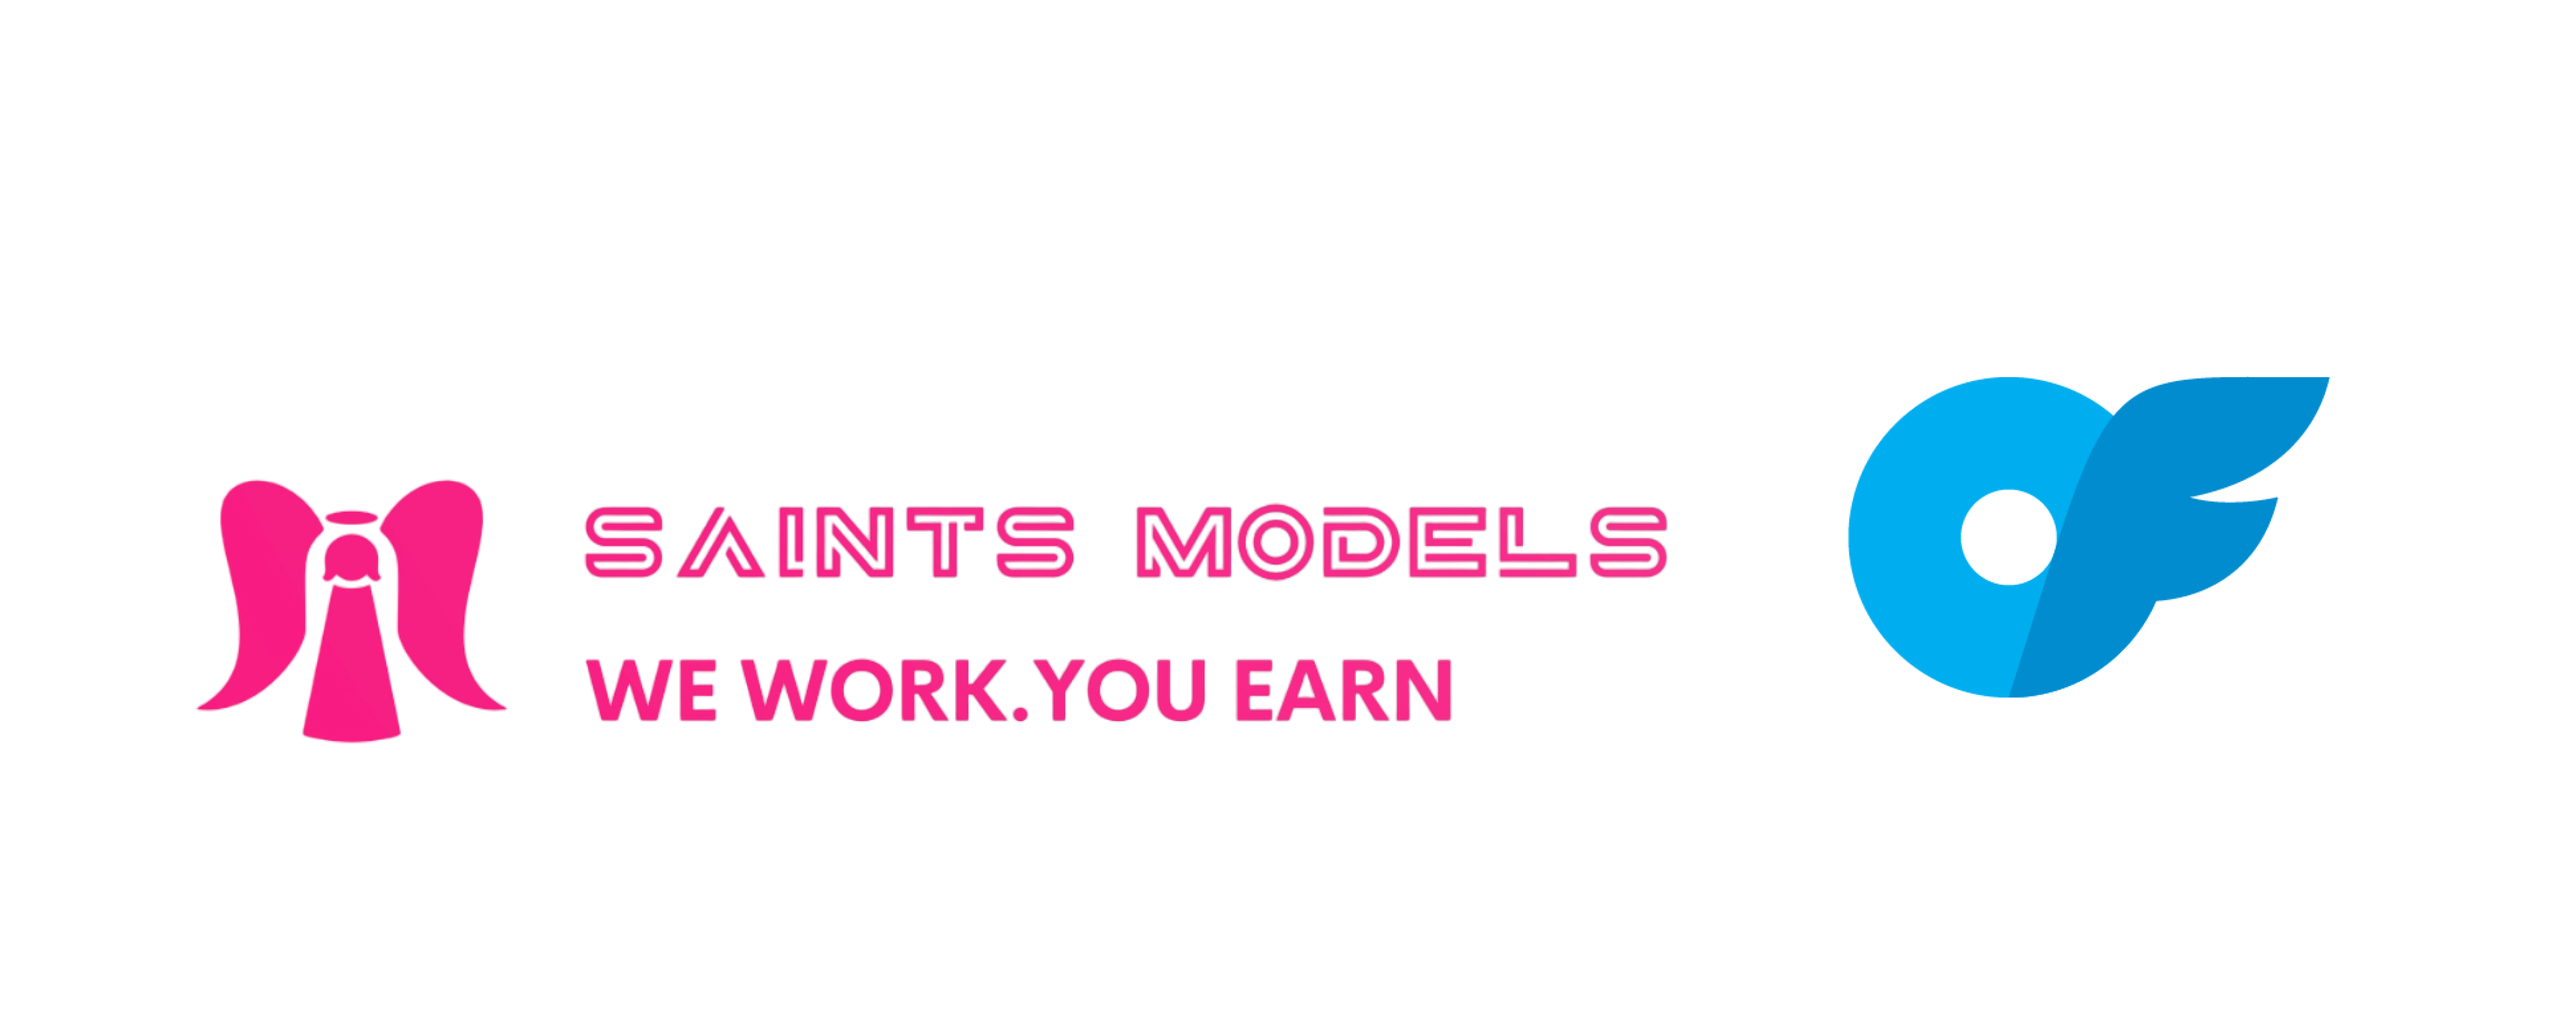
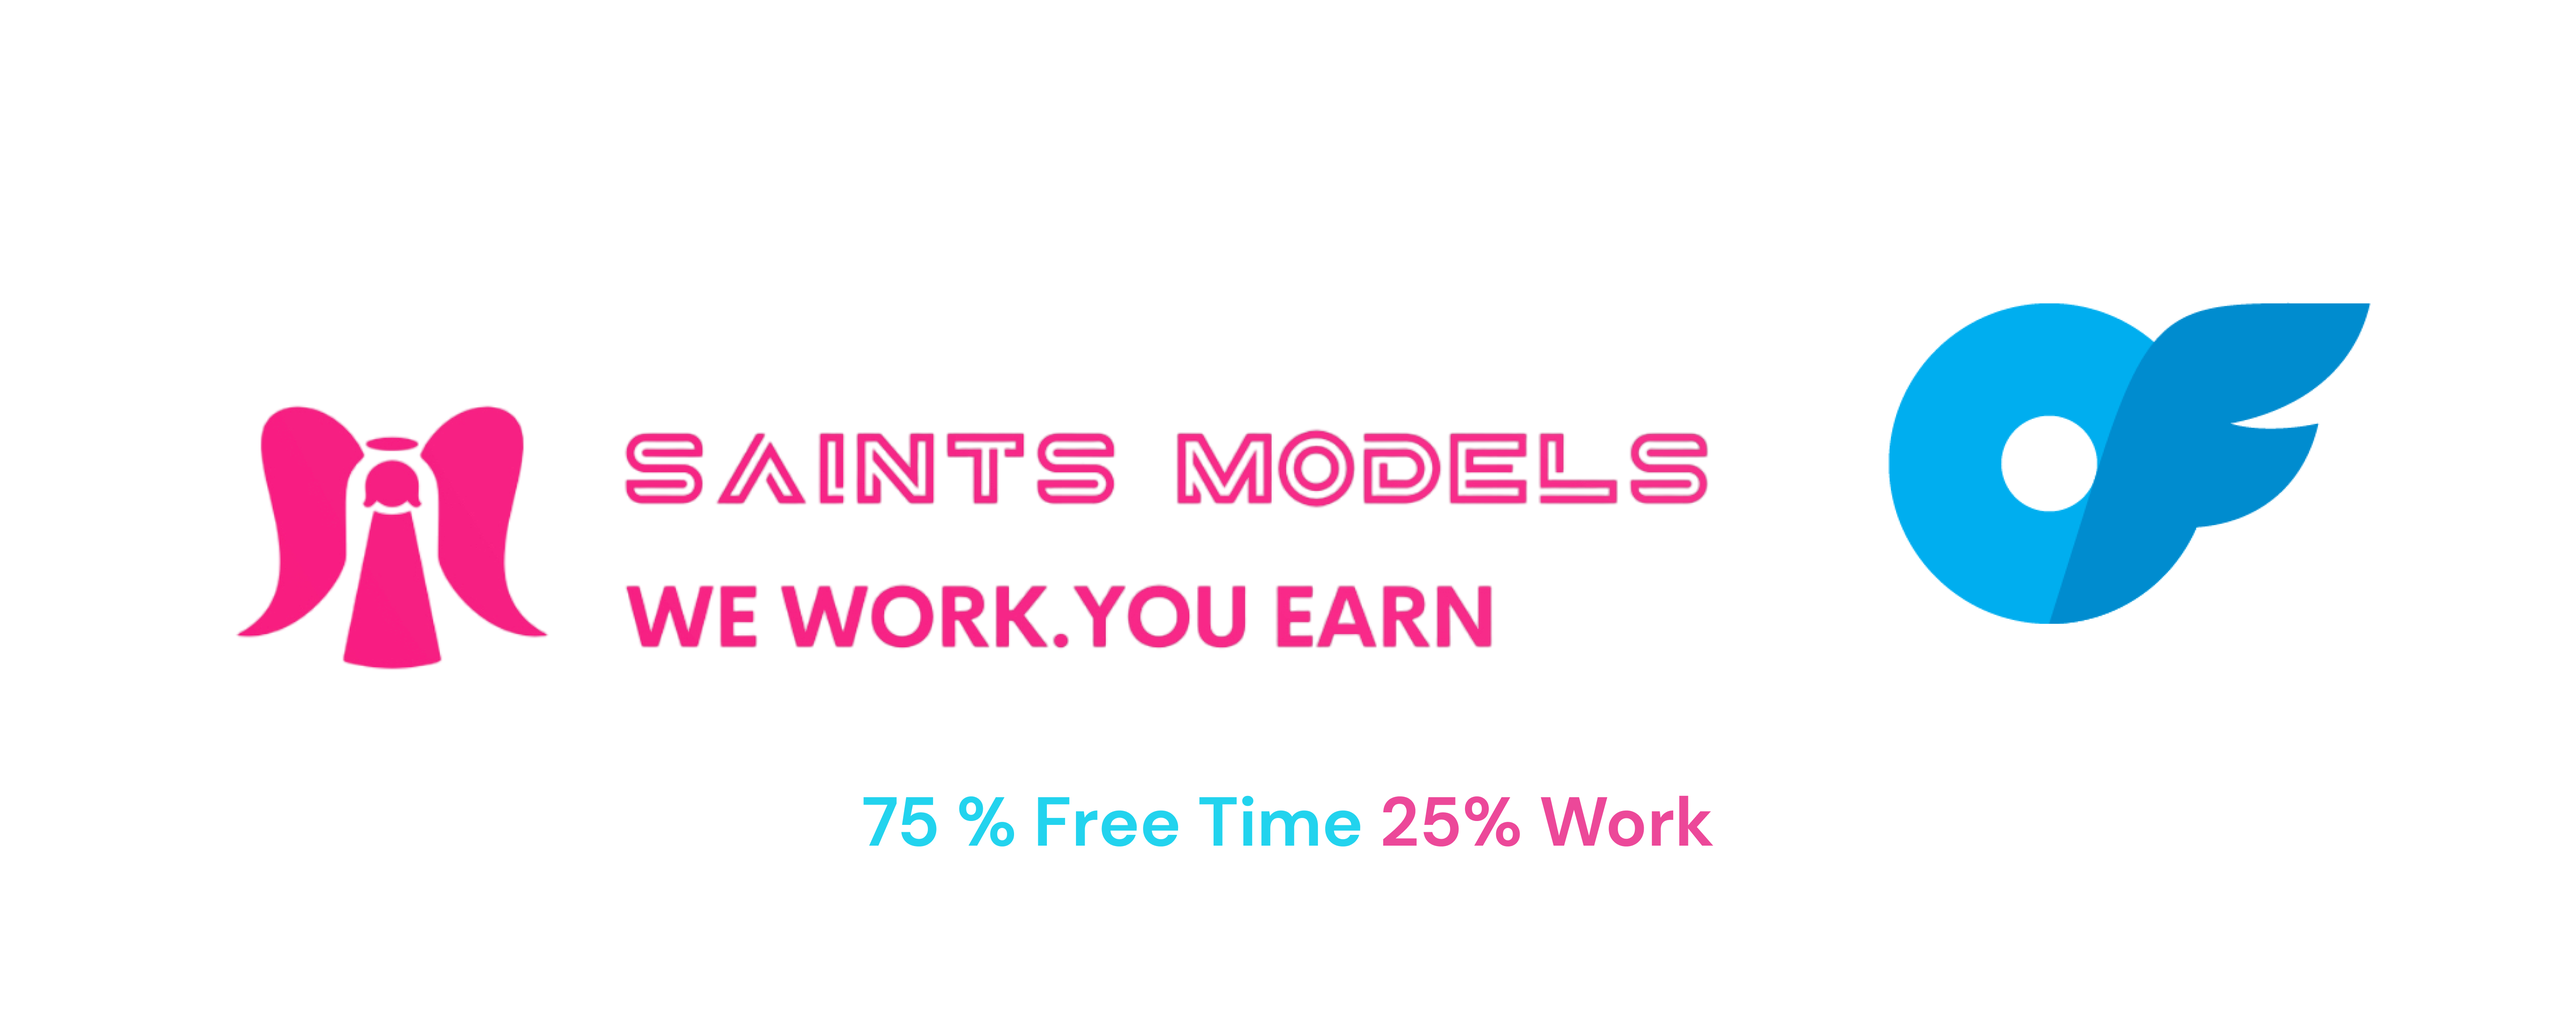
change insta && hero illustration

Changed region(s): [[0.0625, 0.4013, 0.6875, 0.7408], [0.7188, 0.2778, 0.9375, 0.6791], [0.3438, 0.7717, 0.6562, 0.8334]]

diff --git a/app/Navbar.js b/app/Navbar.js
@@ -250,7 +250,7 @@ function Navbar() {
           {socials && (
             <>
               <Link
-                href="https://www.instagram.com/saint_models"
+                href="https://www.instagram.com/saints_models"
                 onClick={() => {
                   setSocials(!socials);
                 }}
